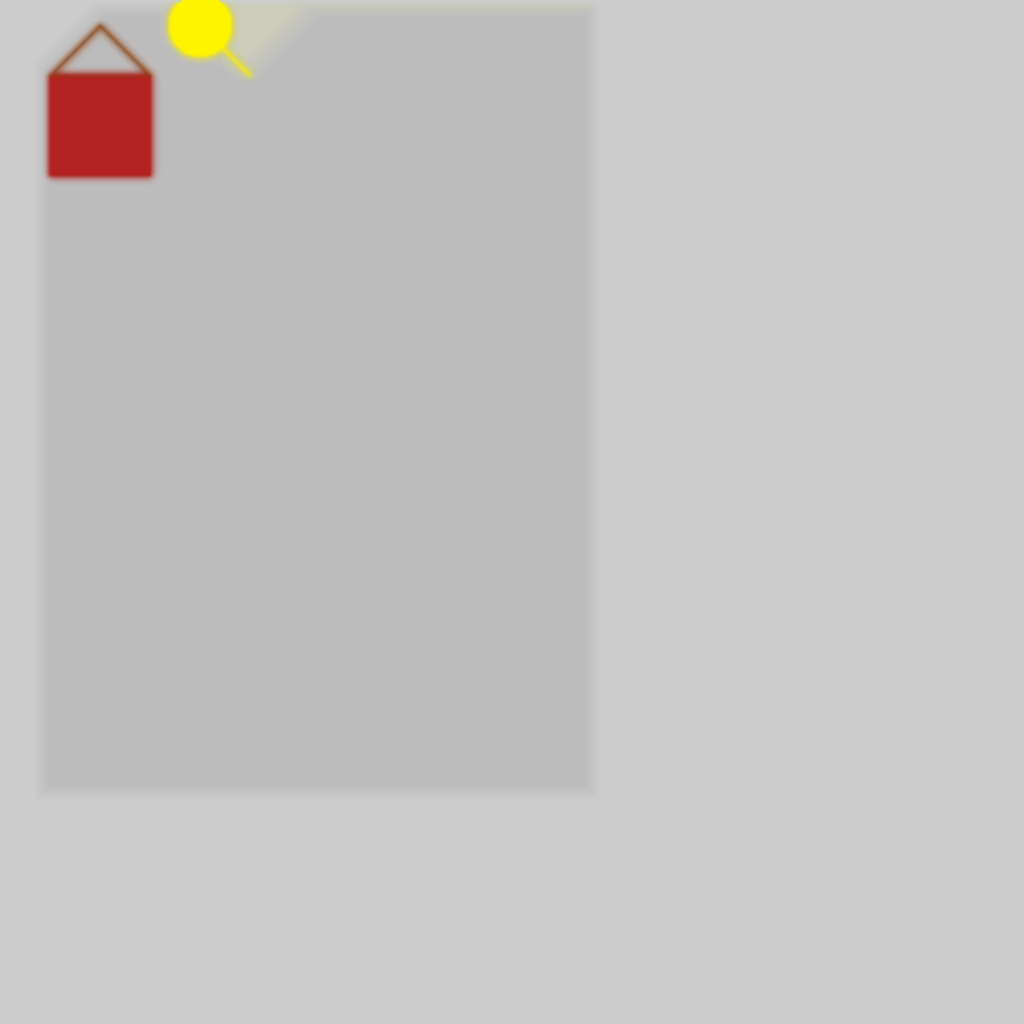
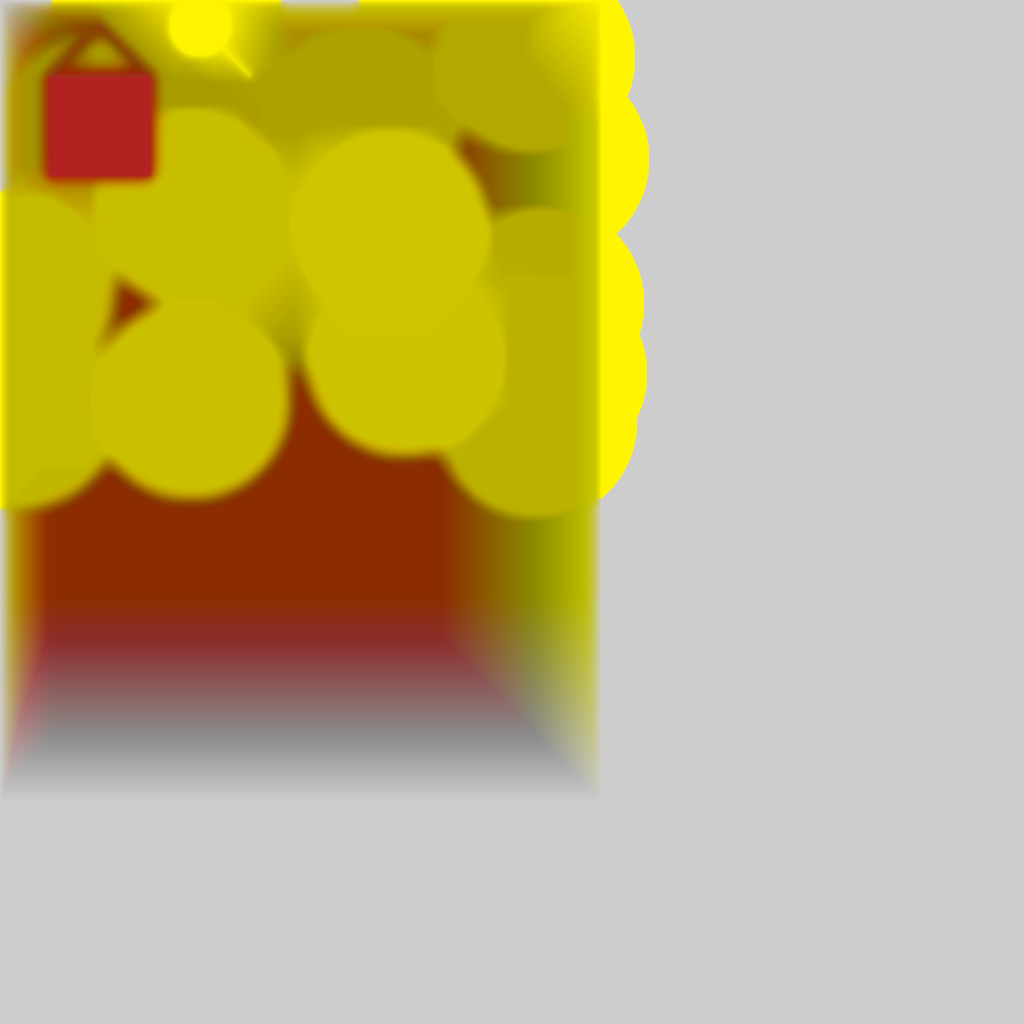
Mouse event added
Yellow circles appear where the mouse is clicked inside the window

diff --git a/src/CatPictureApp.cpp b/src/CatPictureApp.cpp
@@ -10,11 +10,11 @@
 *
 *This project satisfys the following requirements for HW1:
 *	A.1 (rectangle), A.2 (circle), A.3 (line), A.7 (triangle)
-*	B.
+*	B.1 (blur)
 *	C The picture my program draws is a little red house and a sun
 *		with a singular ray shining from it just for kicks :)
 *	D Image saves to a file "yoderal2.png"
-*	E. 
+*	E. , E.6 (yellow circles appear where mouse is clicked)
 */
 
 #include "cinder/app/AppBasic.h"
@@ -95,7 +95,11 @@ private:
 	void createTriangle(uint8_t* pixels, int legLength, int pt1, int pt2);
 
 	/**
+	*Blurs the entire surface. Gets more and more blurry the longer the window is open
 	*
+	*@param pixels An array of pixels
+	*
+	*Satisfys the requirement B.1
 	*/
 	void blurSurface(uint8_t* pixels);
 };
@@ -122,15 +126,14 @@ void CatPictureApp::createRectangle(uint8_t* pixels, int x1, int y1, int x2, int
 	
 	int offset;
 
-		for (int y = 75; y <= endy; y++){			
-			for (int x = 50; x <= endx; x++) {
-				offset = 3*(x+y*surfaceSize);
-				pixels[offset] = 178;
-				pixels[offset+1] = 34;
-				pixels[offset+2] = 34;		
-			}		
-		}	
-
+	for (int y = 75; y <= endy; y++){
+		for (int x = 50; x <= endx; x++) {
+			offset = 3*(x+y*surfaceSize);
+			pixels[offset] = 178;
+			pixels[offset+1] = 34;
+			pixels[offset+2] = 34;
+		}		
+	}	
 }
 
 void CatPictureApp::createLine(uint8_t* pixels, int segLength, int pt1, int pt2) {
@@ -184,7 +187,6 @@ void CatPictureApp::createTriangle(uint8_t* pixels, int legLength, int pt1, int 
 			x += 1;
 			y += 1;
 		}
-
 		
 		for (int i = 0; i <= legLength*2; i++) {
 			pixels[3*(x+y*surfaceSize)] = 139;
@@ -219,19 +221,19 @@ void CatPictureApp::blurSurface(uint8_t* pixels) {
 				for (int x2 = x1-1; x2 <= x1+1; x2++) {
 					//calculate offset for y2 and x2
 					offset = 3*(y2+x2*surfaceSize);
+					//add offset to holding variables
 					totalR += pixels [offset];
 					totalG += pixels [offset + 1];
 					totalB += pixels [offset + 2];
 				}
 			}
-			//store in offset for x1 and y1
+			//store in offset for x1 and y1 but divide by 9.0
 			offset = 3*(y1+x1*surfaceSize);
 			pixels [offset] = totalR/z;
 			pixels [offset + 1] = totalG/z;
 			pixels [offset + 2] = totalB/z;
 		}
 	}
-	
 }
 
 void CatPictureApp::setup()
@@ -241,12 +243,18 @@ void CatPictureApp::setup()
 
 }
 
-void CatPictureApp::mouseDown( MouseEvent event )
-{
+void CatPictureApp::mouseDown( MouseEvent event ) {
+
+	uint8_t* data = (*mySurface_).getData();
+
+	int x = event.getX();
+	int y = event.getY();
+	createCircle(data, x, y, 50);
+
 }
 
-void CatPictureApp::update()
-{
+void CatPictureApp::update() {
+
 	//brightness = brightness - 0.01f;
 	//if(brightness < 0.0f){
 		//brightness = 1.0f; }
